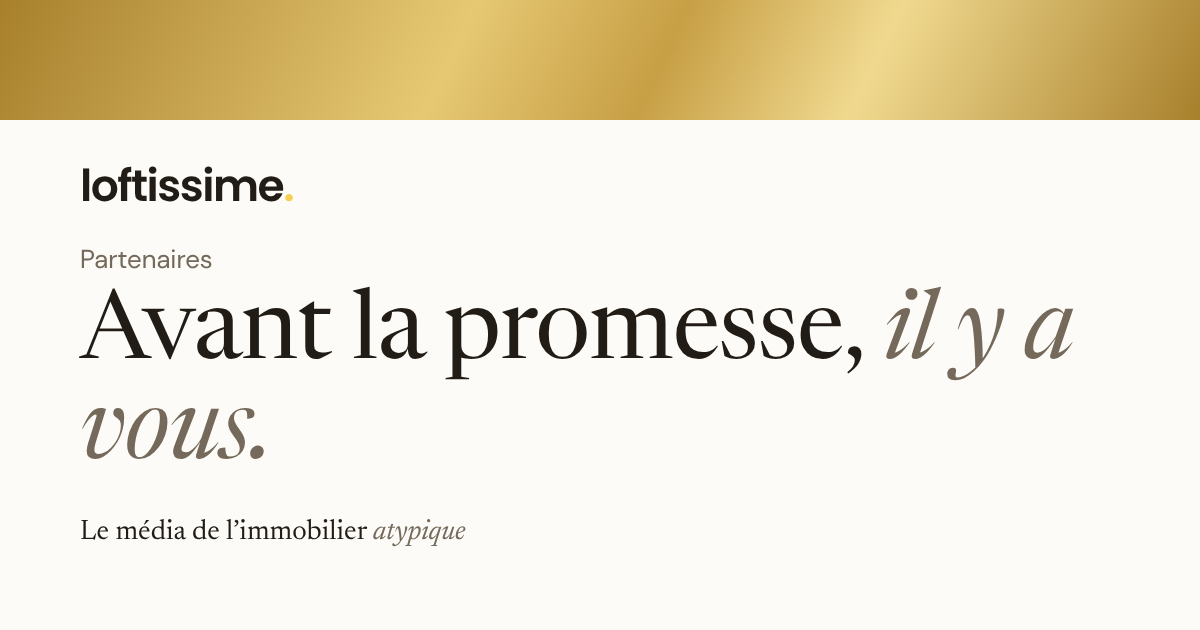
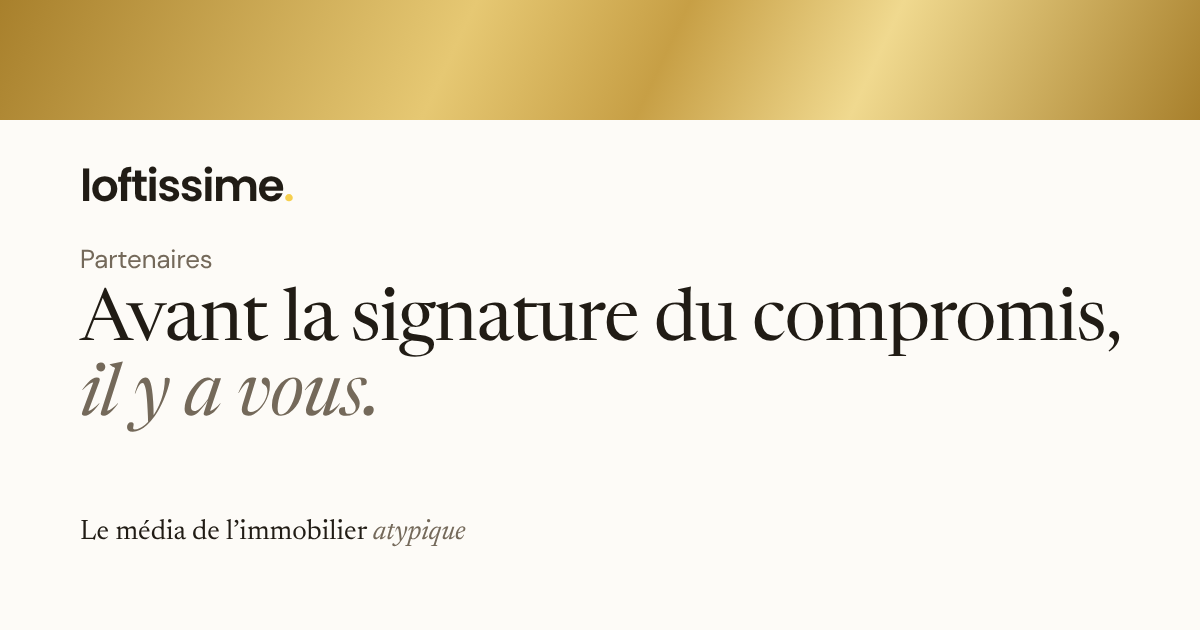
Accueil : le premier numéro sur un bandeau plus soutenu, sans ornement ; présentation notaire : « Avant la signature du compromis »
Claude-Session: https://claude.ai/code/session_015aKJiDLUy7h6cRtFn1LWuo

Changed region(s): [[0.0617, 0.4524, 0.9558, 0.7238]]

diff --git a/frontend/app/lettre/Famille.tsx b/frontend/app/lettre/Famille.tsx
@@ -125,15 +125,8 @@ export default function Famille({ extrait, intro, articles }: { extrait?: React.
         </div>
       </div>
 
-      {/* La séparation : une petite étoile jaune entre deux traits courts */}
-      <div aria-hidden className="mt-16 flex items-center justify-center gap-4 md:mt-24">
-        <span className="h-px w-12 bg-stone-900 md:w-16" />
-        <span className="text-3xl leading-none text-[#F6CF4E]">✦</span>
-        <span className="h-px w-12 bg-stone-900 md:w-16" />
-      </div>
-
-      {/* 2. Le premier numéro, seul sur sa ligne */}
-      <section className="mt-10 md:mt-14" aria-labelledby="nl-premier">
+      {/* 2. Le premier numéro, sur un bandeau plus soutenu, d'un bord à l'autre de l'écran : c'est lui qui fait la séparation */}
+      <section className="mt-16 bg-[#F1E9D8] py-14 [box-shadow:0_0_0_100vmax_#F1E9D8] [clip-path:inset(0_-100vmax)] md:mt-24 md:py-20" aria-labelledby="nl-premier">
         <h2 id="nl-premier" className="font-serif text-3xl leading-[1.1] text-stone-900 md:text-4xl">
           Le premier numéro, <span className="italic text-stone-500">dès {MOIS[premier.mois - 1]}.</span>
         </h2>

diff --git a/frontend/app/partenaires/Presentation.tsx b/frontend/app/partenaires/Presentation.tsx
@@ -25,7 +25,7 @@ export const FICHES: Record<Role, Fiche> = {
   notaire: {
     metier: 'notaire',
     matiere: 'laiton',
-    titre: 'Avant la promesse,',
+    titre: 'Avant la signature du compromis,',
     titreItalique: 'il y a vous.',
     accroche: 'Dans chaque numéro de notre newsletter, une rubrique dit à l’acheteur ce qu’il doit vérifier avant de s’engager. Nous aimerions qu’elle porte votre regard.',
     rubrique: 'Avant la promesse',
